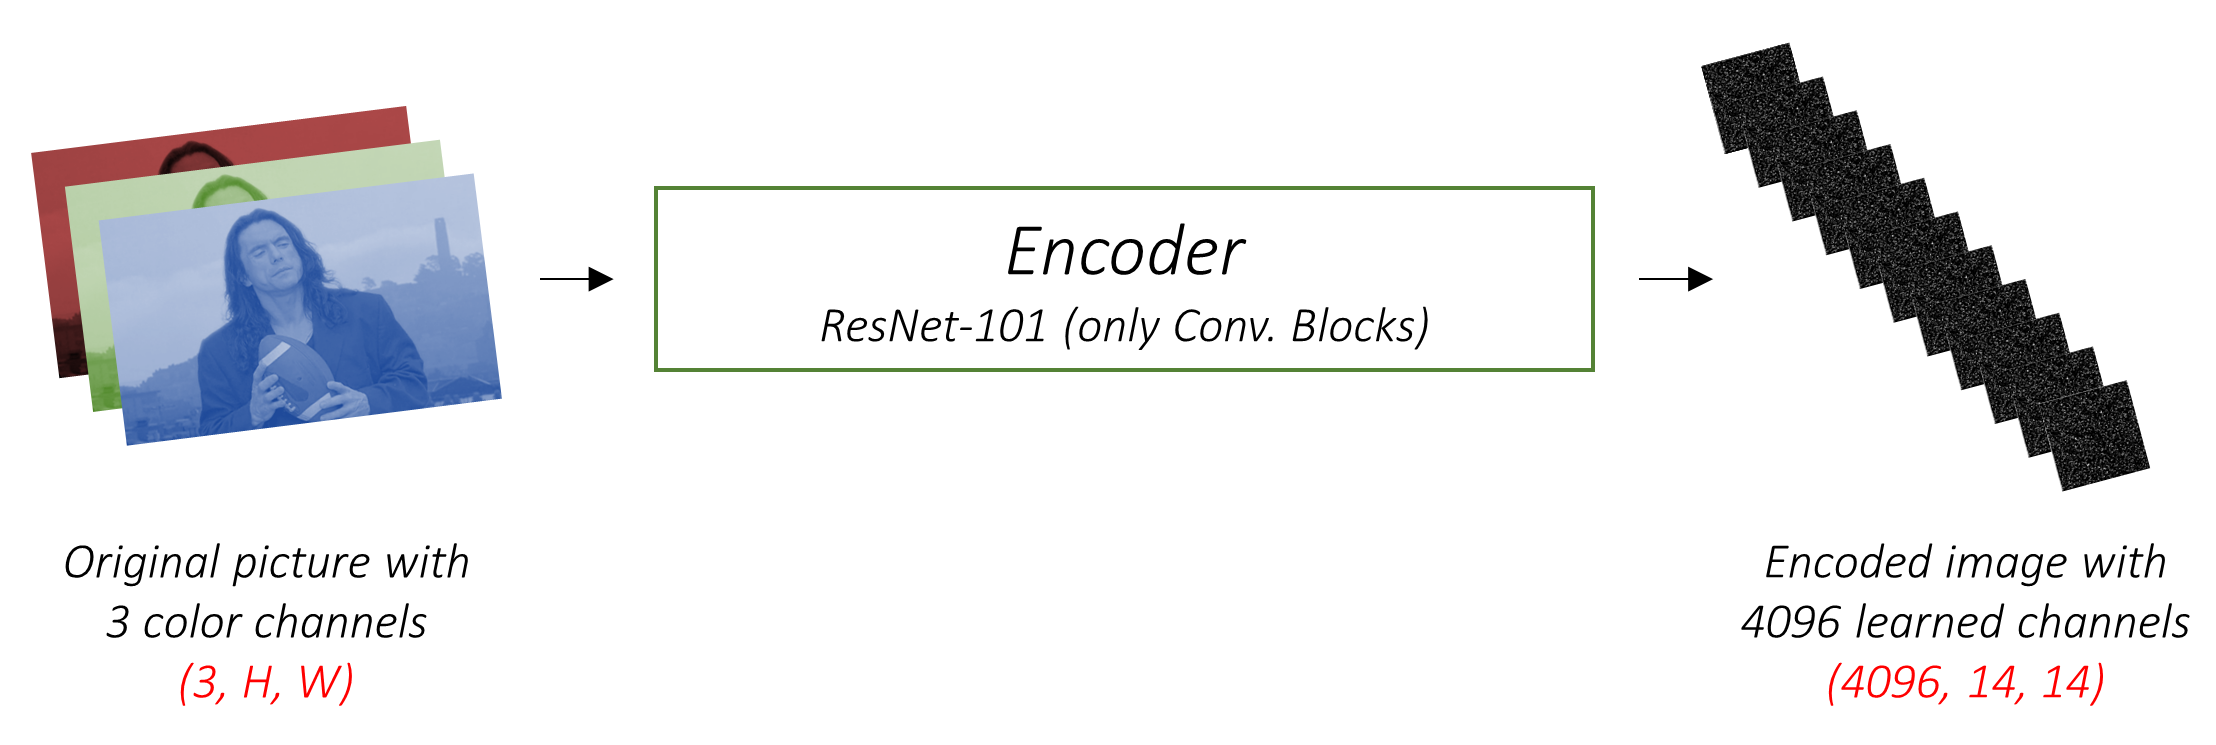
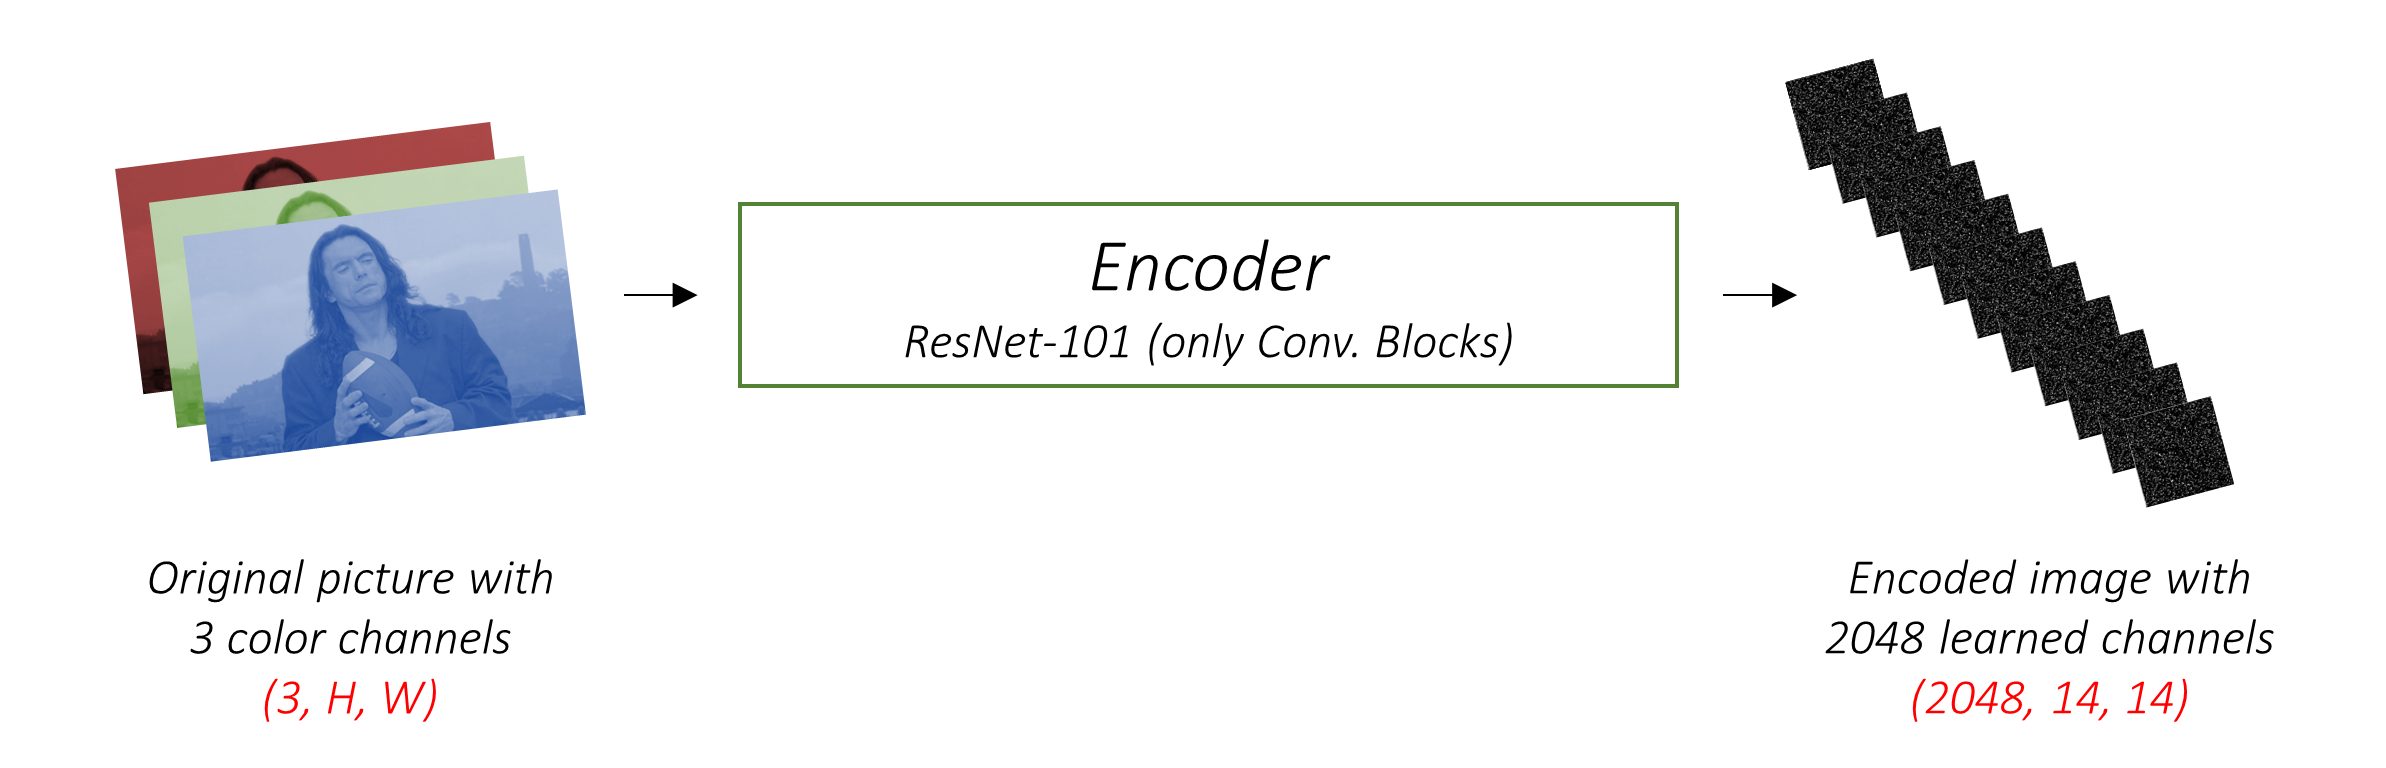
fixed error

diff --git a/README.md b/README.md
@@ -102,7 +102,7 @@ I have chosen to use the **101 layered Residual Network trained on the ImageNet 
 
 ![ResNet Encoder](./img/encoder.png)
 
-These models progressively create smaller and smaller representations of the original image, and each subsequent representation is more "learned", with a greater number of channels. The final encoding produced by our ResNet-101 encoder has a size of 14x14 with 4096 channels, i.e., a `4096, 14, 14` size tensor.
+These models progressively create smaller and smaller representations of the original image, and each subsequent representation is more "learned", with a greater number of channels. The final encoding produced by our ResNet-101 encoder has a size of 14x14 with 2048 channels, i.e., a `2048, 14, 14` size tensor.
 
 I encourage you to experiment with other pre-trained architectures. The paper uses a VGGnet, also pretrained on ImageNet, but without fine-tuning. Either way, modifications are necessary. Since the last layer or two of these models are linear layers coupled with softmax activation for classification, we strip them away.
 
@@ -273,13 +273,13 @@ See `Attention` in [`models.py`](https://github.com/sgrvinod/a-PyTorch-Tutorial-
 
 The Attention network is simple – it's composed of only linear layers and a couple of activations.
 
-Separate linear layers **transform both the encoded image (flattened to `N, 14 * 14, 4096`) and the hidden state (output) from the Decoder to the same dimension**, viz. the Attention size. They are then added and ReLU activated. A third linear layer **transforms this result to a dimension of 1**, whereupon we **apply the softmax to generate the weights** `alpha`.
+Separate linear layers **transform both the encoded image (flattened to `N, 14 * 14, 2048`) and the hidden state (output) from the Decoder to the same dimension**, viz. the Attention size. They are then added and ReLU activated. A third linear layer **transforms this result to a dimension of 1**, whereupon we **apply the softmax to generate the weights** `alpha`.
 
 ### Decoder
 
 See `DecoderWithAttention` in [`models.py`](https://github.com/sgrvinod/a-PyTorch-Tutorial-to-Image-Captioning/blob/master/models.py).
 
-The output of the Encoder is received here and flattened to dimensions `N, 14 * 14, 4096`. This is just convenient and prevents having to reshape the tensor multiple times.
+The output of the Encoder is received here and flattened to dimensions `N, 14 * 14, 2048`. This is just convenient and prevents having to reshape the tensor multiple times.
 
 We **initialize the hidden and cell state of the LSTM** using the encoded image with the `init_hidden_state()` method, which uses two separate linear layers.
 
